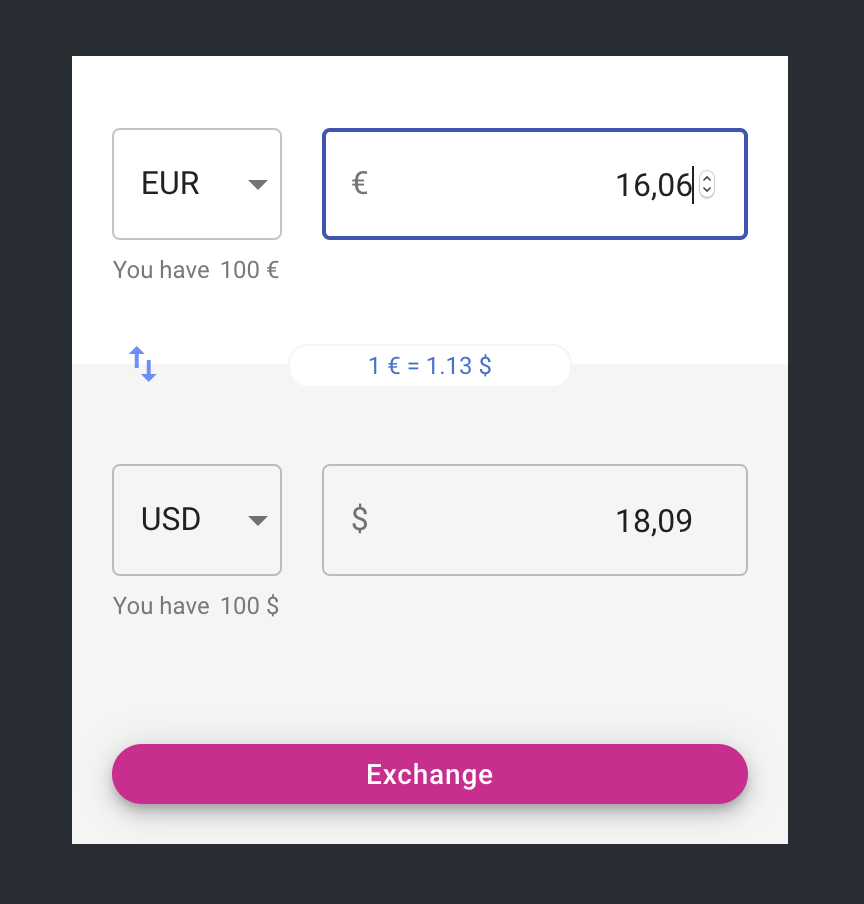
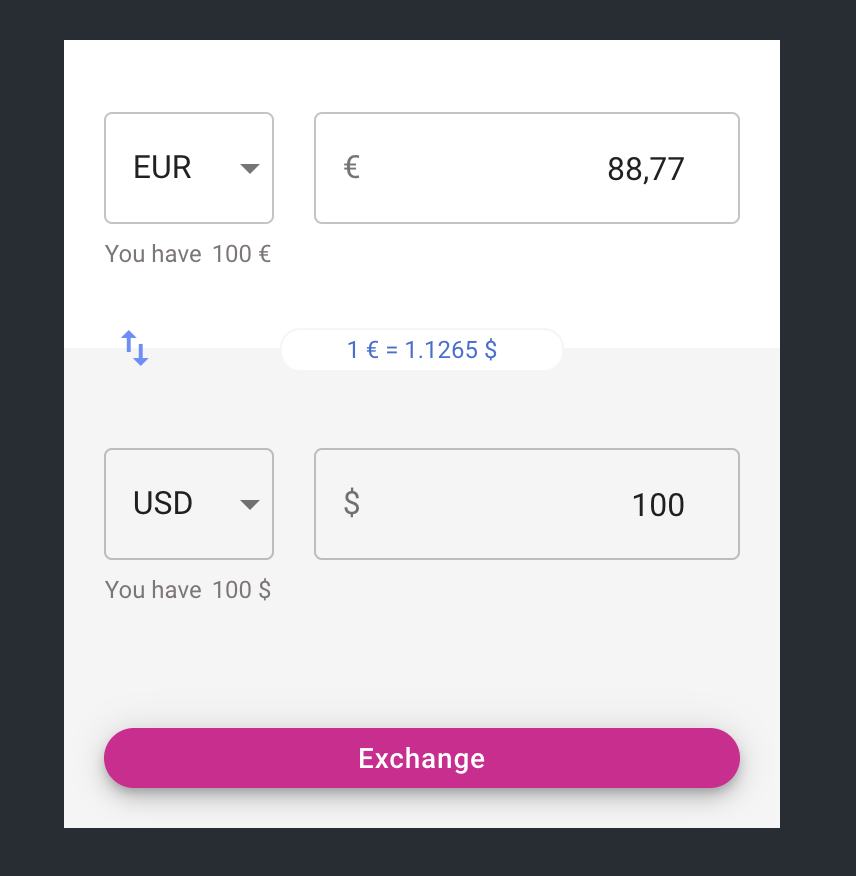
fixed autoupdate defect

diff --git a/src/store/reducers/currencyExchange.js b/src/store/reducers/currencyExchange.js
@@ -29,9 +29,10 @@ export const initialState = {
     { currency: 'EUR', amount: 100 },
     { currency: 'GBP', amount: 100 },
   ],
+  lastUpdatedAmount: 'input',
 };
 
-const roundValue = value => Math.round(value * 100) / 100;
+const roundValue = (value, round = 100) => Math.round(value * round) / round;
 
 const findMoney = (pocket, currency) => {
   const money = pocket.find(money => money.currency === currency.currency);
@@ -80,6 +81,7 @@ export const currencyExchange = (state = initialState, action) => {
         ...state,
         inputAmount: String(action.amount),
         outputAmount: String(roundValue(action.amount * state.currencyRate)),
+        lastUpdatedAmount: 'input',
       };
     case CHANGE_INPUT_CURRENCY:
       return {
@@ -92,6 +94,7 @@ export const currencyExchange = (state = initialState, action) => {
         ...state,
         inputAmount: String(roundValue(action.amount / state.currencyRate)),
         outputAmount: String(action.amount),
+        lastUpdatedAmount: 'output',
       };
     case CHANGE_OUTPUT_CURRENCY:
       return {
@@ -116,8 +119,15 @@ export const currencyExchange = (state = initialState, action) => {
       return {
         ...state,
         loadingRates: false,
-        currencyRate: roundValue(action.rate),
-        outputAmount: String(roundValue(state.inputAmount * action.rate)),
+        currencyRate: roundValue(action.rate, 10000),
+        outputAmount:
+          state.lastUpdatedAmount === 'input'
+            ? String(roundValue(state.inputAmount * action.rate))
+            : state.outputAmount,
+        inputAmount:
+          state.lastUpdatedAmount === 'output'
+            ? String(roundValue(state.outputAmount / action.rate))
+            : state.inputAmount,
       };
     case ERROR_CURRENCY_RATES:
       return {
